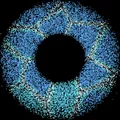
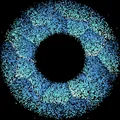
feat(web): Gletscher Variante F2 (Faltkanten: Tal-Schatten, Glas-Grate) + Lagune/Gewichte-Fix (#108)
nearest2 liefert zusätzlich cell2 (zweitnächste Zelle) für Kanten je Grenzpaar.
Vorschaubilder glacier neu erzeugt.

Claude-Session: https://claude.ai/code/session_01EJ1Lbk2P3P3Bd1whv4Chv2

diff --git a/web/voice.html b/web/voice.html
@@ -3132,11 +3132,13 @@ btnRand.addEventListener('click', () => {
 // Donut: hueStart/hueRange/satFloor.   Satellites: satH/satS/satL.
 const PALETTES = {
   // Gletscher: Schollen-Muster (vhBuildSpatialLUT 'glacier'), Farben aus Eishoehlen-Foto.
-  glacier: { hueStart: 0.55, hueRange: 0.05, satFloor: 0.6, litMul: 0.9,
-            satH: 0.53, satS: 0.6, satL: 0.85, mR: 0.7, mG: 0.9, mB: 1.0,
-            spatial: 'glacier', furSoftness: 0.15,
-            discrete: { hues: [0.529, 0.529, 0.54, 0.568, 0.612, 0.593], sats: [1.0, 0.77, 0.712, 0.778, 0.802, 0.789],
-                        lits: [0.955, 0.778, 0.524, 0.459, 0.435, 0.112], weights: [0.1667, 0.1667, 0.1667, 0.1667, 0.1667, 0.1667] } },
+  glacier: { hueStart: 0.58, hueRange: 0.05, satFloor: 0.6, litMul: 1.0,
+            satH: 0.53, satS: 0.7, satL: 0.85, mR: 0.6, mG: 0.95, mB: 1.0,
+            spatial: 'glacier', furSoftness: 0.08,
+            discrete: { hues: [0.613, 0.603, 0.603, 0.599, 0.599, 0.588, 0.573, 0.556, 0.542, 0.536, 0.529, 0.526],
+                        sats: [0.824, 0.812, 0.808, 0.811, 0.793, 0.77, 0.747, 0.746, 0.78, 0.803, 0.829, 1.0],
+                        lits: [0.067, 0.125, 0.204, 0.29, 0.378, 0.443, 0.48, 0.522, 0.59, 0.702, 0.839, 0.975],
+                        weights: [0.0833, 0.0833, 0.0833, 0.0833, 0.0833, 0.0833, 0.0833, 0.0833, 0.0833, 0.0833, 0.0833, 0.0833] } },
   // Eis: cyan-blau, dunkler · sandgelbe Satelliten als Wärme-Akzent · Maus = warm orange (Sonne auf Eis)
   ice:    { hueStart: 0.55, hueRange:  0.13, satFloor: 0.65, litMul: 0.78,
             satH: 0.13, satS: 0.85, satL: 0.55 },
@@ -3252,7 +3254,7 @@ const PALETTES = {
 // wechseln alle drei beim Style-Wechsel gemeinsam. Werte = Dark-Theme; Light
 // dunkelt per CSS (--vh-*-ink) ab.
 const VH_SPEAKER_COLORS = {
-  glacier: { user: '#9be3f2', delta: '#2fb2dc', agent: '#e8fbff' },  // Hellcyan · Cyan · Eisweiß
+  glacier: { user: '#76d6f0', delta: '#2aa3e0', agent: '#f2fdff' },  // Hellcyan · Cyan · Eisweiß
   ice:     { user: '#5fd6e8', delta: '#7aa7ff', agent: '#e4d79a' },  // Cyan · Eisblau · Sand-Akzent
   earth:   { user: '#58b86e', delta: '#4a8fe0', agent: '#d9b26a' },  // Grün · Ozean · Sand
   fire:    { user: '#ff6a3d', delta: '#ffc93c', agent: '#c86bff' },  // Glut · Flamme · Violett
@@ -3375,7 +3377,7 @@ const VH_STYLE_BRIGHT = {
   water:   { d: 2.20, l: 1.85 }, lagoon: { d: 1.30, l: 1.60 }, air:    { d: 0.80, l: 1.40 }, forest:  { d: 1.35, l: 1.85 },
   zebra:   { d: 1.85, l: 1.85 }, giraffe:{ d: 1.85, l: 1.85 }, leopard: { d: 1.85, l: 1.85 },
   tiger:   { d: 1.85, l: 1.85 },
-  glacier: { d: 1.60, l: 1.60 },
+  glacier: { d: 1.50, l: 1.50 },
 };
 const brightnessInput = document.getElementById('brightness');
 let vhBrightRel = parseFloat(brightnessInput.value);
@@ -3555,15 +3557,15 @@ function vhRingCells(gt, gr, jit) {
       let th = Math.atan2(py, px); if (th < 0) th += TWO_PI;
       const ca = Math.floor(th / TWO_PI * gt);
       const cb = Math.max(0, Math.min(gr - 1, Math.floor((r - (R_MAJOR - RH)) / (2 * RH) * gr)));
-      let b1 = Infinity, b2 = Infinity, bi = 0;
+      let b1 = Infinity, b2 = Infinity, bi = 0, bj = 0;
       for (let da = -2; da <= 2; da++) for (let db = -1; db <= 1; db++) {
         const bb = cb + db; if (bb < 0 || bb >= gr) continue;
         const id = (((ca + da) % gt + gt) % gt) * gr + bb;
         const dx = px - sx[id], dy = py - sy[id];
         const dd = dx * dx + dy * dy;
-        if (dd < b1) { b2 = b1; b1 = dd; bi = id; } else if (dd < b2) { b2 = dd; }
+        if (dd < b1) { b2 = b1; b1 = dd; bj = bi; bi = id; } else if (dd < b2) { b2 = dd; bj = id; }
       }
-      out.d1 = Math.sqrt(b1); out.d2 = Math.sqrt(b2); out.cell = bi;
+      out.d1 = Math.sqrt(b1); out.d2 = Math.sqrt(b2); out.cell = bi; out.cell2 = bj;
       out.ang = Math.atan2(py - sy[bi], px - sx[bi]);
       return out;
     },
@@ -3618,27 +3620,34 @@ function vhBuildSpatialLUT() {
       spatialBucketLUT[i] = v > thr ? 1 : 0;                     // 1 schwarz, 0 weiß
     }
   } else if (spatialMode === 'glacier') {
-    // Gletscher (Olli 01.10., nach Eishoehlen-Foto): grosse, etwa fuenfeckige
-    // Schollen mit leuchtenden Bruchkanten und dunklen Rissen; je Scholle ein
-    // eigener Blauton, Verlauf Kante hell -> Mitte tief. Buckets: 0 Lichtkante,
-    // 1 Hellcyan, 2 Cyan, 3 Gletscherblau, 4 Tiefblau, 5 Navy-Riss.
-    const f = vhRingCells(6, 2, 0.22);
+    // Gletscher (Olli 01.10., Variante F2): 10 Schollen als geneigte Facetten
+    // (Licht von oben links, je Scholle leicht gekippt), 12-stufiger Eisverlauf.
+    // Grenzen je Paar entweder eingefaltet (Tal: weicher Schatten zum Faltgrund)
+    // oder aufgefaltet (Grat wie Glaskante: Glanzlinie, heller Saum, feiner
+    // dunkler Refraktionsrand). Dazu vereinzeltes Funkeln.
+    const f = vhRingCells(10, 2, 0.22);
+    const R = f.cellSize * 0.55;
+    const LG = -2.35, NB = buckets;
     for (let i = 0; i < N; i++) {
       const nn = f.nearest2(i);
       const e = nn.d2 - nn.d1;
       const hc = vhHash01(nn.cell * 11 + 5);
-      const gap = 0.03 + 0.03 * vhHash01(nn.cell * 3 + 1);
-      let b;
-      if (e < gap) b = 5;
-      else if (e < gap + 0.05) b = 0;
-      else if (e < gap + 0.13) b = 1;
-      else {
-        const base = hc < 0.33 ? 2 : (hc < 0.66 ? 3 : 4);
-        const tt = (e - gap - 0.13) / 0.35;
-        b = tt < 0.35 ? Math.max(2, base - 1) : (tt < 0.8 ? base : Math.min(4, base + 1));
+      const tilt = Math.cos(nn.ang - (LG + (hc - 0.5) * 1.6));
+      const rad = Math.min(1, nn.d1 / R);
+      let s = 0.30 + hc * 0.28 + 0.30 * tilt * rad;
+      const a = Math.min(nn.cell, nn.cell2), c = Math.max(nn.cell, nn.cell2);
+      if (vhHash01(a * 97 + c * 13 + 3) < 0.5) {          // Grat
+        if (e < 0.022) s = 1.0;
+        else if (e < 0.05) s = 0.86;
+        else if (e < 0.075) s -= 0.22;
+        else if (e < 0.11) s += 0.08 * tilt;
+      } else {                                             // Tal
+        if (e < 0.018) s = 0.0;
+        else if (e < 0.11) s = s * (0.25 + 0.75 * (e - 0.018) / 0.092);
       }
-      if (b >= buckets) b = buckets - 1;
-      spatialBucketLUT[i] = b;
+      if (vhHash01(i * 31 + 7) > 0.985) s = 1.0;
+      s = Math.max(0, Math.min(1, s));
+      spatialBucketLUT[i] = Math.round(s * (NB - 1));
     }
   } else if (spatialMode === 'voronoi') {
     // Giraffe (Olli 01.10.): große polygonale Flecken mit hellen Trennlinien
